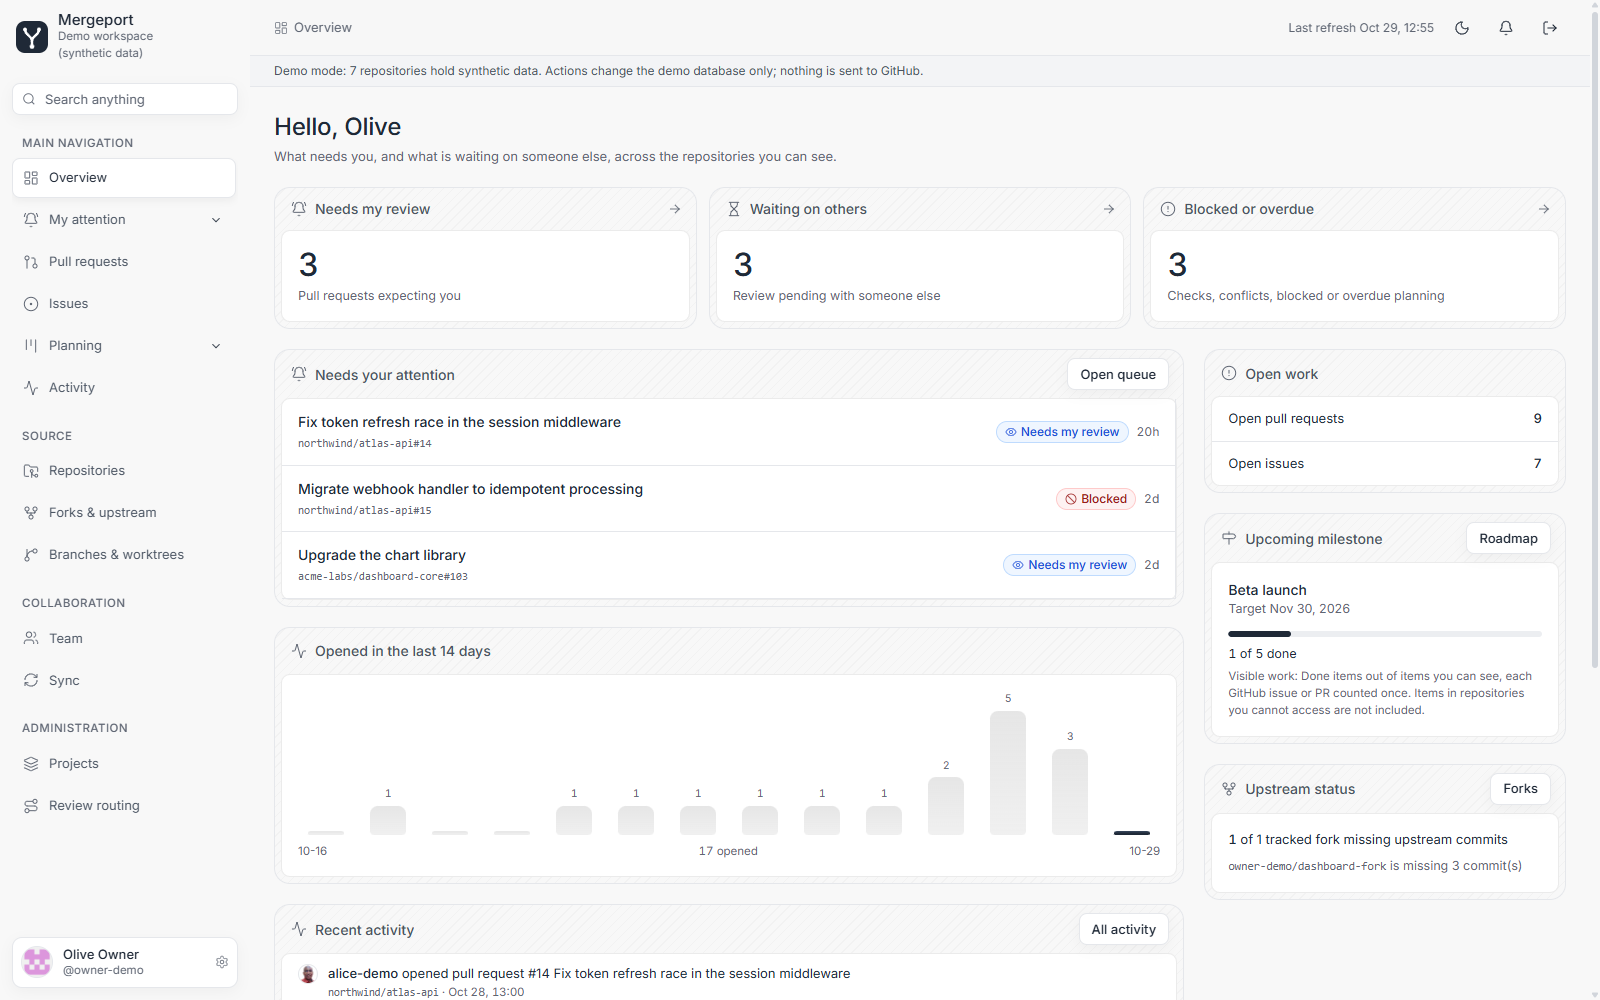
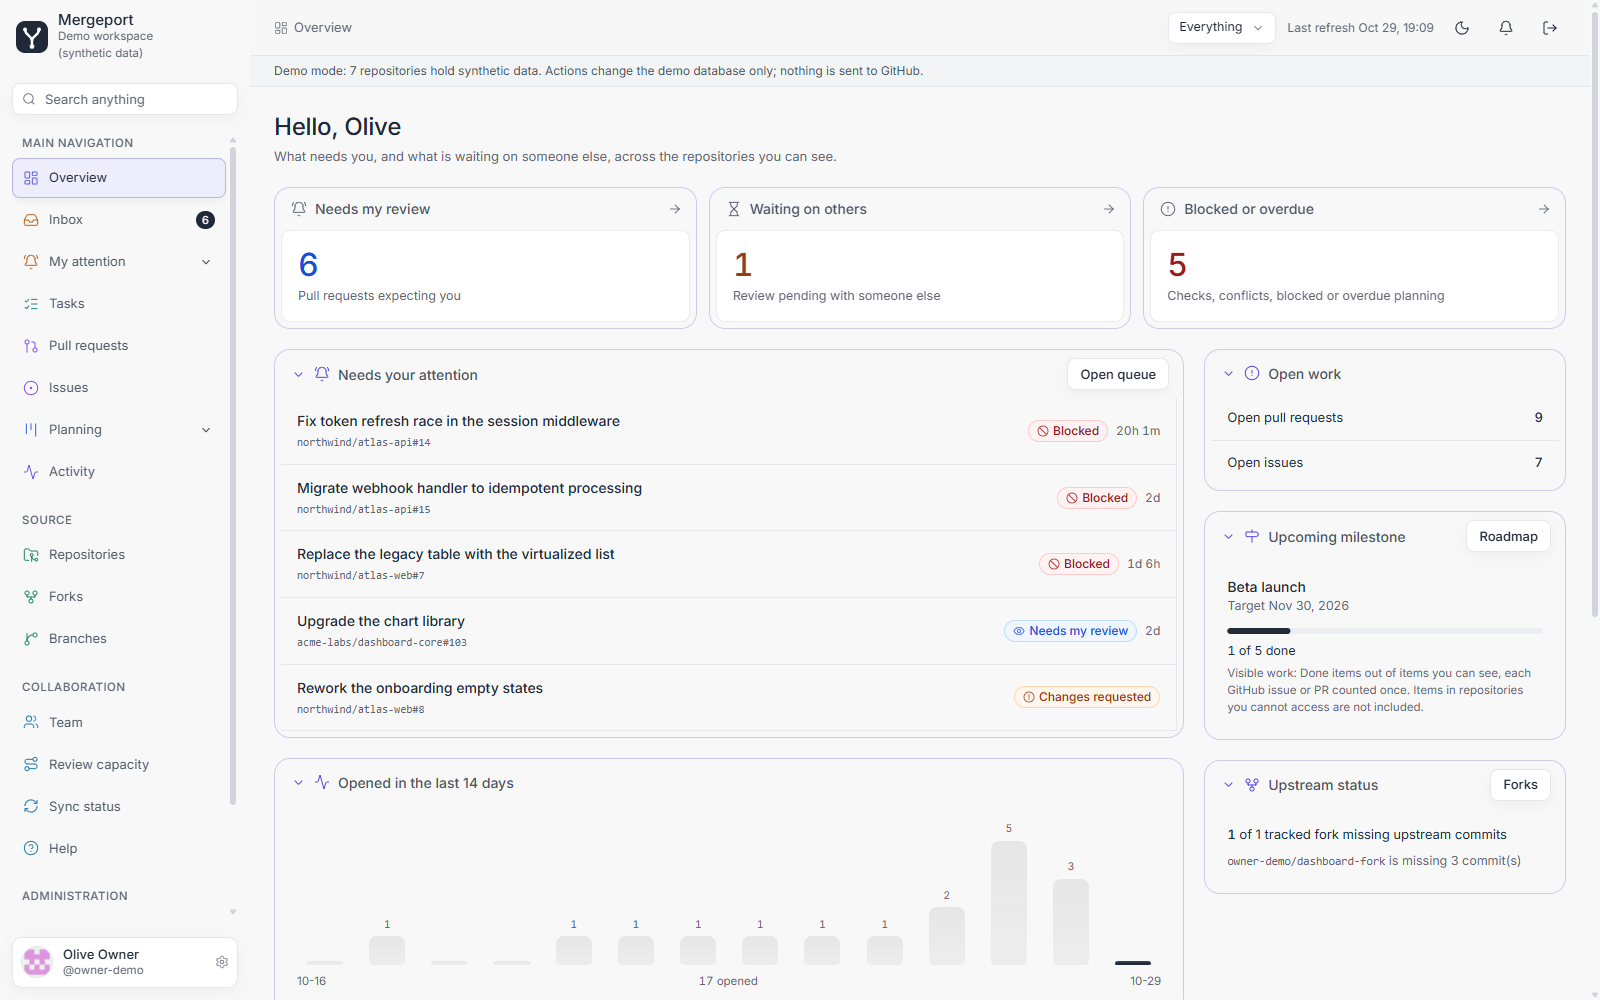
Refresh README screenshots with demo data and add the newer features

diff --git a/src/components/settings/NotificationSettings.tsx b/src/components/settings/NotificationSettings.tsx
@@ -46,8 +46,8 @@ export function NotificationSettings({ initial }: { initial: Prefs }) {
       <fieldset className="flex flex-wrap items-center gap-3">
         <legend className="label">Quiet hours</legend>
         <label className="flex items-center gap-2"><input type="checkbox" checked={prefs.quiet.enabled} onChange={(e) => setPrefs({ ...prefs, quiet: { ...prefs.quiet, enabled: e.target.checked } })} /> Hold desktop pop-ups</label>
-        <label className="flex items-center gap-1.5">from <input type="time" className="input !h-8 w-28" value={prefs.quiet.start} onChange={(e) => e.target.value && setPrefs({ ...prefs, quiet: { ...prefs.quiet, start: e.target.value } })} /></label>
-        <label className="flex items-center gap-1.5">until <input type="time" className="input !h-8 w-28" value={prefs.quiet.end} onChange={(e) => e.target.value && setPrefs({ ...prefs, quiet: { ...prefs.quiet, end: e.target.value } })} /></label>
+        <label className="flex items-center gap-1.5">from <input type="time" className="input !h-8 w-36" value={prefs.quiet.start} onChange={(e) => e.target.value && setPrefs({ ...prefs, quiet: { ...prefs.quiet, start: e.target.value } })} /></label>
+        <label className="flex items-center gap-1.5">until <input type="time" className="input !h-8 w-36" value={prefs.quiet.end} onChange={(e) => e.target.value && setPrefs({ ...prefs, quiet: { ...prefs.quiet, end: e.target.value } })} /></label>
         <p className="w-full text-[12px] text-ink-3">Quiet hours follow your time zone and only hold desktop pop-ups. Everything still appears in the app.</p>
       </fieldset>
 

diff --git a/README.md b/README.md
@@ -12,11 +12,16 @@ All screenshots use the built-in synthetic demo data (`npm run local:demo`): mad
 
 | | |
 | --- | --- |
-| ![Overview](docs/screenshots/overview.png) **Overview**: what needs you, what waits on others, what is blocked. | ![My attention](docs/screenshots/attention.png) **My attention**: queues grouped by repository, the reason behind each behind "Why". |
-| ![Planning board](docs/screenshots/planning-board.png) **Planning board**: cross-repository cards; dragging never changes GitHub. | ![Pull requests](docs/screenshots/pull-requests.png) **Pull requests**: review state, checks and mergeability. |
+| ![Overview](docs/screenshots/overview.png) **Overview**: what needs you, what waits on others, what is blocked. | ![Inbox](docs/screenshots/inbox.png) **Inbox**: pull requests waiting on you; done, snooze, and they return when something new happens. |
+| ![My attention](docs/screenshots/attention.png) **My attention**: queues grouped by repository, the reason behind each behind "Why". | ![Ready to merge?](docs/screenshots/pr-readiness.png) **Ready to merge?**: evidence per row, who acts next, and CODEOWNERS routing beside the review state. |
+| ![Planning board](docs/screenshots/planning-board.png) **Planning board**: cross-repository cards; dragging never changes GitHub. | ![Named boards](docs/screenshots/planning-named-board.png) **Named boards**: chosen columns, renamed labels and work-in-progress limits over the same cards. |
+| ![Epics](docs/screenshots/planning-epics.png) **Epics**: a shallow hierarchy with progress, owner and dates. | ![Dependencies](docs/screenshots/planning-dependencies.png) **Dependencies**: blockers across projects, critical blockers, hidden ends stay anonymous. |
+| ![Delivery analytics](docs/screenshots/planning-insights.png) **Delivery analytics**: cycle time and aging work, only from recorded history. | ![Review in place](docs/screenshots/pr-files.png) **Review in place**: diffs, inline comments, a pending review sent once, and changes since your last review. |
+| ![Pull requests](docs/screenshots/pull-requests.png) **Pull requests**: review state, checks and mergeability. | ![Review capacity](docs/screenshots/capacity.png) **Review capacity**: who has how much waiting, and a configured backup suggestion. |
 | ![Projects](docs/screenshots/projects.png) **Projects**: group repositories, required reviewers, sharing. | ![Review routing](docs/screenshots/review-routing.png) **Review routing**: who must review, and who work waits on. |
-| ![Repositories](docs/screenshots/repositories.png) **Repositories**: owner type, access, sync state. | ![Forks](docs/screenshots/forks.png) **Forks and upstream**: real commit divergence. |
-| ![Light theme](docs/screenshots/overview-light.png) **Light, dark or system theme.** | <img src="docs/screenshots/phone-overview.png" alt="Phone layout" width="260"> **Phone layout.** |
+| ![Repositories](docs/screenshots/repositories.png) **Repositories**: owner type, access, sync state. | ![Forks and upstream](docs/screenshots/forks.png) **Forks and upstream**: real commit divergence, relevance subscriptions, backports. |
+| ![Sync status](docs/screenshots/sync.png) **Sync status**: where each change is: saved here, queued, published, waiting for teammates. | ![Settings](docs/screenshots/settings.png) **Settings**: notifications, backup and restore, theme and GitHub account. |
+| ![Light theme](docs/screenshots/overview-light.png) **Light theme**: light, dark or system. | <img src="docs/screenshots/phone-overview.png" alt="Phone layout" width="260"> **Phone layout.** |
 
 ## What you need
 
